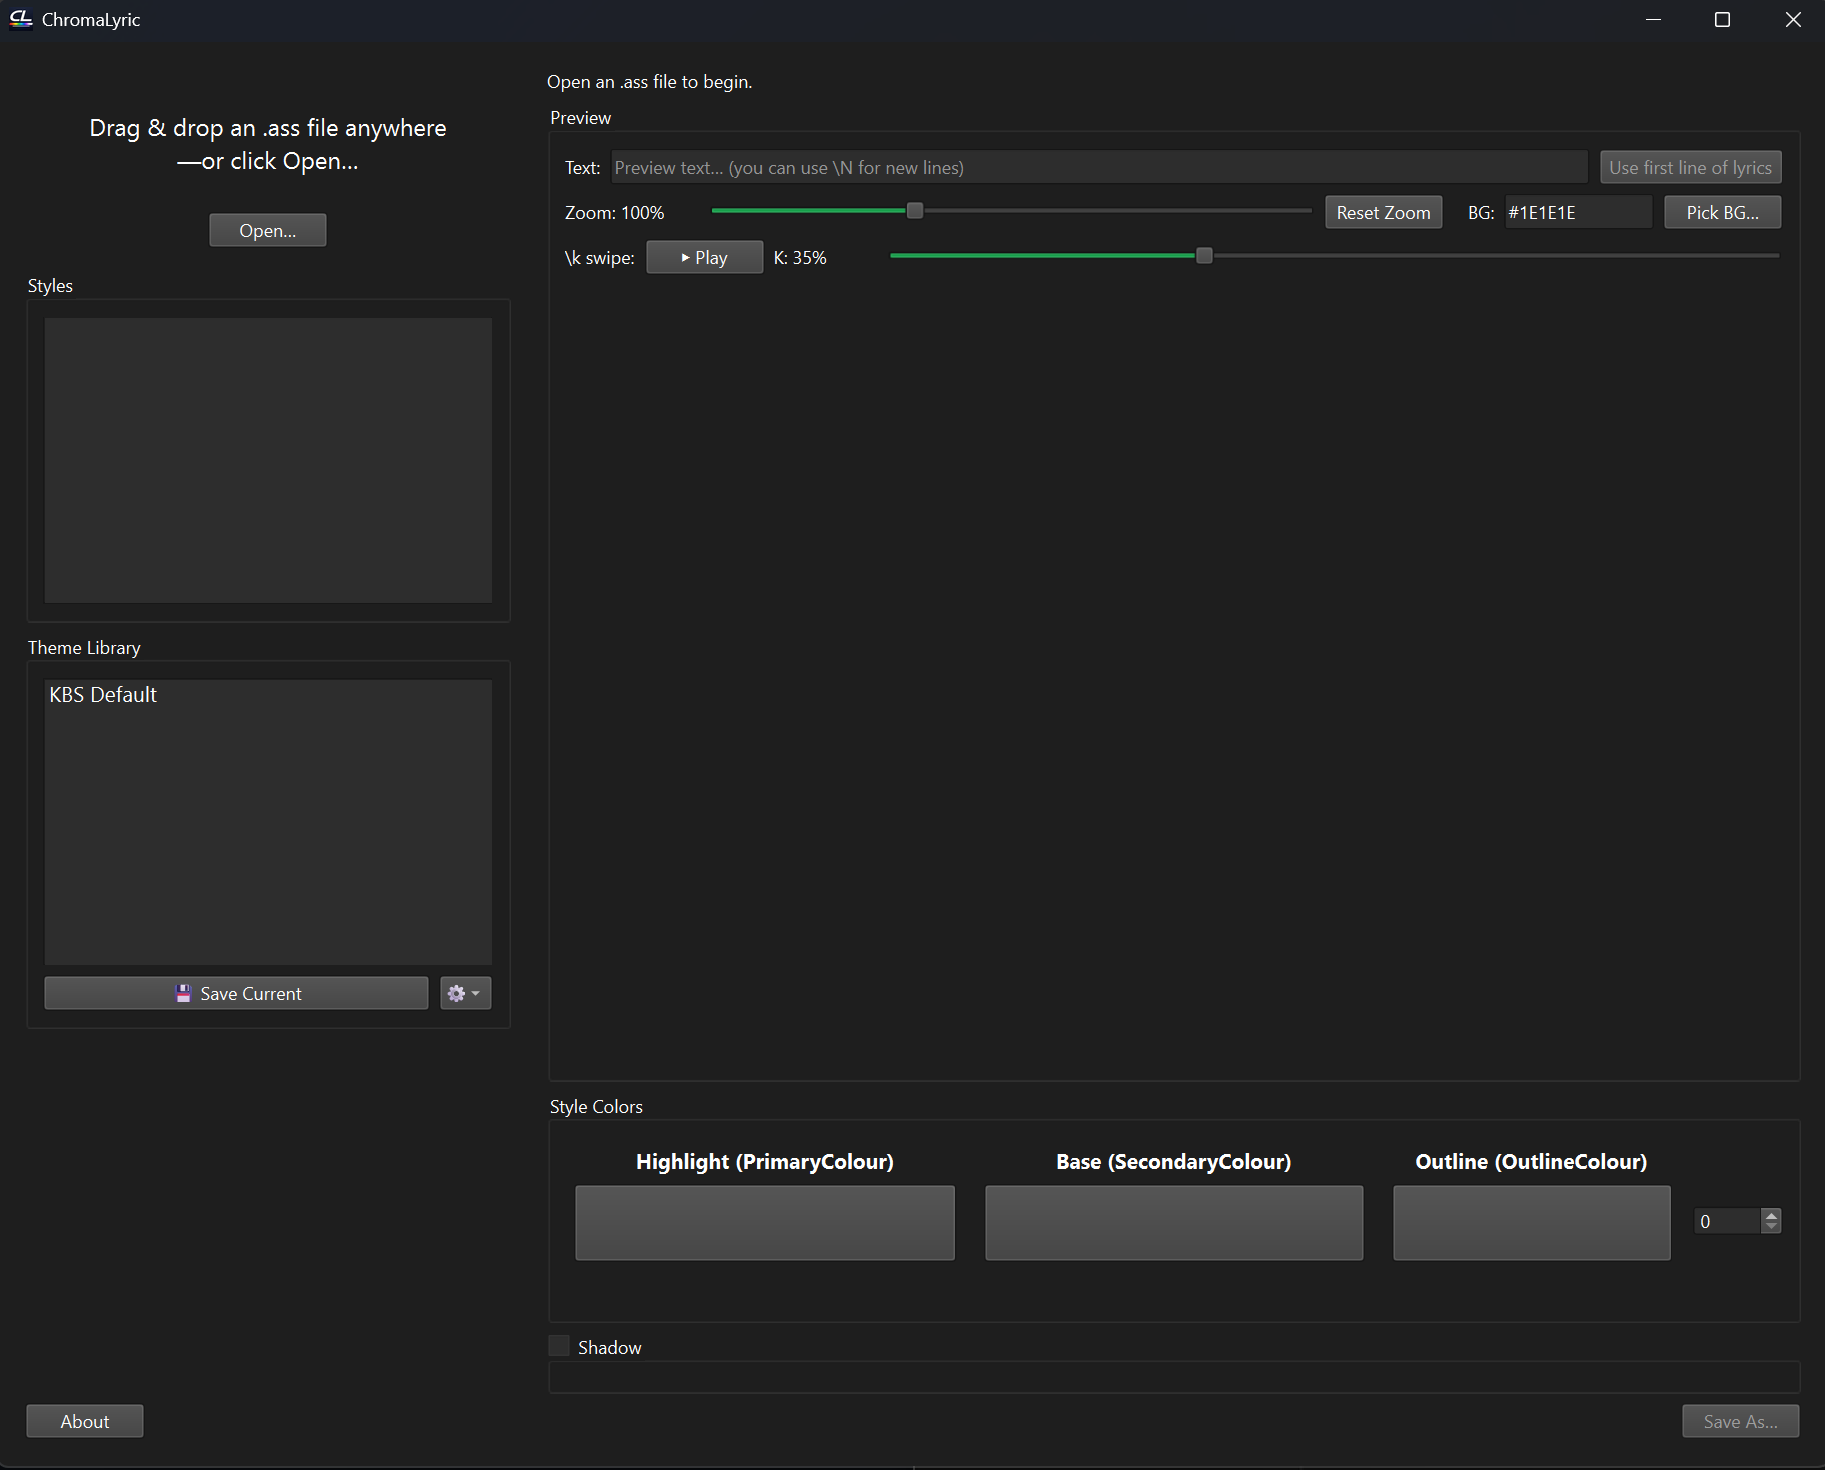
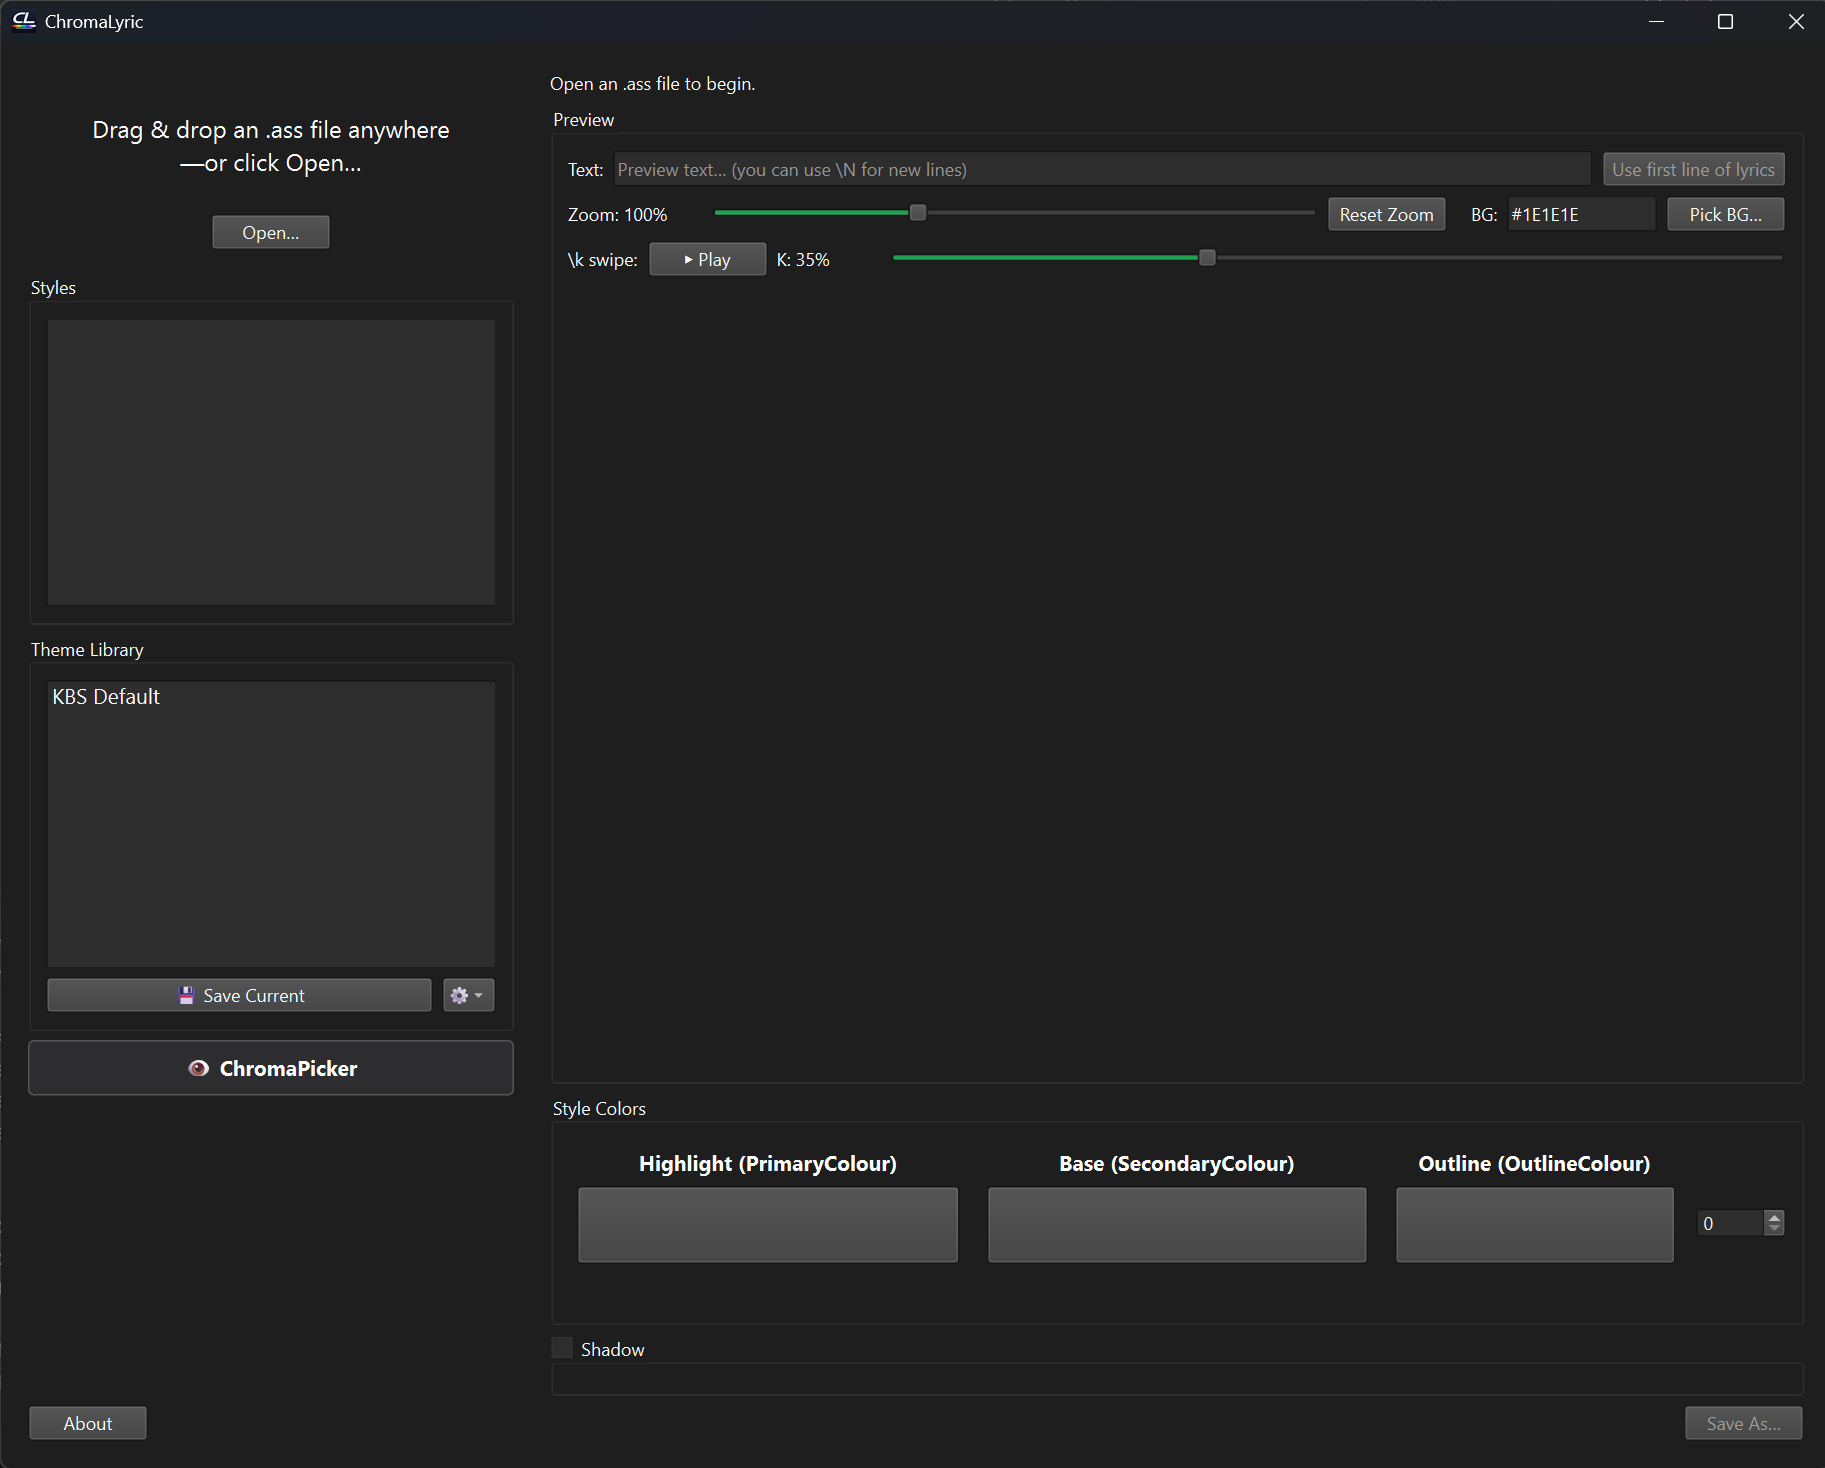
ChromaPicker added, v1.9.0

diff --git a/app.py b/app.py
@@ -22,7 +22,16 @@ from pathlib import Path
 from typing import Dict, List, Optional, Tuple
 
 from PySide6.QtCore import QSettings, Qt, QTimer, Signal
-from PySide6.QtGui import QAction, QColor, QFont, QPainter, QPainterPath, QPen, QPixmap
+from PySide6.QtGui import (
+    QAction,
+    QColor,
+    QFont,
+    QImage,
+    QPainter,
+    QPainterPath,
+    QPen,
+    QPixmap,
+)
 from PySide6.QtWidgets import (
     QApplication,
     QColorDialog,
@@ -741,6 +750,182 @@ class DropWidget(QWidget):
         event.ignore()
 
 
+class ImageDropper(QLabel):
+    """A custom label that handles image scaling and exact pixel color picking."""
+
+    colorPicked = Signal(QColor)
+
+    def __init__(self):
+        super().__init__()
+        self.setAlignment(Qt.AlignCenter)
+        self.setCursor(Qt.CrossCursor)
+        self.setMinimumSize(400, 300)
+        self.setStyleSheet("border: 2px dashed #444; background-color: #121212;")
+        self.setText("Click 'Load Image' to begin")
+        self.source_image = None
+        self.scaled_image = None
+
+    def load_image(self, path: str):
+        self.source_image = QImage(path)
+        self.update_image()
+
+    def resizeEvent(self, event):
+        super().resizeEvent(event)
+        if self.source_image:
+            self.update_image()
+
+    def update_image(self):
+        if self.source_image.isNull():
+            return
+        # Scale image to fit the label while keeping aspect ratio
+        self.scaled_image = self.source_image.scaled(
+            self.width(), self.height(), Qt.KeepAspectRatio, Qt.SmoothTransformation
+        )
+        self.setPixmap(QPixmap.fromImage(self.scaled_image))
+
+    def mousePressEvent(self, event):
+        if not self.scaled_image:
+            return
+
+        # Calculate offsets because the image is centered in the QLabel
+        x_offset = (self.width() - self.scaled_image.width()) // 2
+        y_offset = (self.height() - self.scaled_image.height()) // 2
+
+        px = int(event.position().x()) - x_offset
+        py = int(event.position().y()) - y_offset
+
+        # If the click is actually inside the image bounds
+        if 0 <= px < self.scaled_image.width() and 0 <= py < self.scaled_image.height():
+            color = self.scaled_image.pixelColor(px, py)
+            self.colorPicked.emit(color)
+
+
+class PickedColorWidget(QWidget):
+    """A single row in the color list showing the swatch and transfer buttons."""
+
+    transferColor = Signal(str, QColor)
+
+    def __init__(self, color: QColor):
+        super().__init__()
+        self.color = color
+
+        layout = QHBoxLayout()
+        layout.setContentsMargins(4, 4, 4, 4)
+
+        # Swatch
+        self.swatch = QLabel()
+        self.swatch.setFixedSize(24, 24)
+        self.swatch.setStyleSheet(
+            f"background-color: {color.name()}; border: 1px solid #444; border-radius: 3px;"
+        )
+
+        # Hex Label
+        self.hex_lbl = QLabel(color.name().upper())
+        self.hex_lbl.setStyleSheet(
+            "font-family: monospace; font-weight: bold; font-size: 13px;"
+        )
+        self.hex_lbl.setFixedWidth(65)
+
+        # Transfer Buttons
+        btn_layout = QHBoxLayout()
+        btn_layout.setSpacing(4)
+
+        targets = [
+            ("H", "PrimaryColour", "Highlight"),
+            ("B", "SecondaryColour", "Base"),
+            ("O", "OutlineColour", "Outline"),
+            ("S", "BackColour", "Shadow"),
+            ("BG", "Background", "Preview BG"),
+        ]
+
+        for text, key, tooltip in targets:
+            btn = QPushButton(text)
+            btn.setFixedSize(26, 26)
+            btn.setToolTip(f"Send to {tooltip}")
+            btn.setStyleSheet("font-weight: bold; font-size: 11px;")
+            # Capture the current key and color in the lambda
+            btn.clicked.connect(
+                lambda checked=False, k=key, c=color: self.transferColor.emit(k, c)
+            )
+            btn_layout.addWidget(btn)
+
+        layout.addWidget(self.swatch)
+        layout.addWidget(self.hex_lbl)
+        layout.addLayout(btn_layout)
+        layout.addStretch()
+        self.setLayout(layout)
+
+
+# -----------------------------
+# ChromaPicker
+# -----------------------------
+
+
+class ChromaPickerWindow(QDialog):
+    """The main ChromaPicker dialog window."""
+
+    colorTransferred = Signal(str, QColor)
+
+    def __init__(self, parent=None):
+        super().__init__(parent)
+        self.setWindowTitle("ChromaPicker - Image Color Extractor")
+        self.resize(850, 550)
+        self.setStyleSheet(
+            "QDialog { background-color: #1E1E1E; color: white; } QLabel { color: white; }"
+        )
+
+        # Left Side (Image)
+        self.dropper = ImageDropper()
+        self.dropper.colorPicked.connect(self.add_color_to_list)
+
+        self.load_btn = QPushButton("📂 Load Image (JPG/PNG)")
+        self.load_btn.setFixedHeight(35)
+        self.load_btn.clicked.connect(self.open_image)
+
+        left_layout = QVBoxLayout()
+        left_layout.addWidget(self.dropper, stretch=1)
+        left_layout.addWidget(self.load_btn)
+
+        # Right Side (Color List)
+        self.color_list = QListWidget()
+        self.color_list.setFixedWidth(280)
+        self.color_list.setStyleSheet(
+            "QListWidget { background-color: #121212; border: 1px solid #444; }"
+        )
+
+        self.clear_btn = QPushButton("🗑 Clear Palette")
+        self.clear_btn.clicked.connect(self.color_list.clear)
+
+        right_layout = QVBoxLayout()
+        right_layout.addWidget(QLabel("<b>Extracted Palette</b>"))
+        right_layout.addWidget(self.color_list)
+        right_layout.addWidget(self.clear_btn)
+
+        # Main Layout
+        main_layout = QHBoxLayout()
+        main_layout.addLayout(left_layout, stretch=3)
+        main_layout.addLayout(right_layout, stretch=1)
+        self.setLayout(main_layout)
+
+    def open_image(self):
+        path, _ = QFileDialog.getOpenFileName(
+            self, "Open Image", "", "Images (*.png *.jpg *.jpeg)"
+        )
+        if path:
+            self.dropper.load_image(path)
+
+    def add_color_to_list(self, color: QColor):
+        item = QListWidgetItem(self.color_list)
+        widget = PickedColorWidget(color)
+
+        # Route the transfer signal up to the Main Window
+        widget.transferColor.connect(self.colorTransferred.emit)
+
+        item.setSizeHint(widget.sizeHint())
+        self.color_list.insertItem(0, item)  # Insert at top
+        self.color_list.setItemWidget(item, widget)
+
+
 # -----------------------------
 # Main window
 # -----------------------------
@@ -819,6 +1004,22 @@ class MainWindow(QMainWindow):
 
         left.addWidget(self.preset_group)
 
+        # --- ChromaPicker Launch Button ---
+        self.chroma_picker_btn = QPushButton("👁 ChromaPicker")
+        self.chroma_picker_btn.setStyleSheet("""
+            QPushButton {
+                font-size: 14px;
+                padding: 8px;
+                font-weight: bold;
+                background-color: #2D2D30;
+                border: 1px solid #555;
+                border-radius: 4px;
+            }
+            QPushButton:hover { background-color: #3E3E42; }
+        """)
+        self.chroma_picker_btn.clicked.connect(self.open_chroma_picker)
+        left.addWidget(self.chroma_picker_btn)
+
         # Initialize the "Memory"
         self.settings = QSettings("MattJoy", "ChromaLyric")
         self.presets = []
@@ -887,6 +1088,10 @@ class MainWindow(QMainWindow):
         self.k_timer = QTimer(self)
         self.k_timer.setInterval(20)
         self.k_timer.timeout.connect(self.on_k_timer_tick)
+
+        # ChromaPicker Button
+        self.chroma_picker_btn = QPushButton("👁 ChromaPicker")
+        self.chroma_picker_btn.clicked.connect(self.open_chroma_picker)
 
         ctrl_row1 = QHBoxLayout()
         ctrl_row1.addWidget(QLabel("Text:"))
@@ -1194,6 +1399,37 @@ class MainWindow(QMainWindow):
             self.shadow_opacity_slider.setValue(0)
             self.shadow_opacity_slider.blockSignals(False)
 
+    def open_chroma_picker(self):
+        picker = ChromaPickerWindow(self)
+        # Connect the picker's output to our receive function
+        picker.colorTransferred.connect(self.receive_chromapicker_color)
+        picker.show()  # .show() makes it float so you can use the main window at the same time
+
+    def receive_chromapicker_color(self, target: str, color: QColor):
+        if target == "Background":
+            self.preview.set_bg_color(color)
+            self.bg_hex.setText(color.name().upper())
+            return
+
+        st = self.current_style()
+        if not st:
+            QMessageBox.warning(self, "No Style", "Please select an ASS style first!")
+            return
+
+        # Keep the existing alpha/transparency of the target color
+        current = style_get_color(st, target) or (255, 255, 255, 0)
+        alpha = current[3]
+
+        # Apply the new color
+        style_set_color(st, target, (color.red(), color.green(), color.blue(), alpha))
+
+        # Save to the QColorDialog custom swatches memory
+        self.save_custom_colors()
+
+        # Force UI update
+        self.on_style_selected(self.styles_list.currentRow())
+        self.preview.update()
+
     # ---- Editing ----
 
     def pick_color(self, key: str):
@@ -1265,7 +1501,7 @@ class MainWindow(QMainWindow):
         text_lbl = QLabel(
             "Vibe Coded in 2026 by Matt Joy.<br>"
             + '<a href="https://www.youtube.com/@MattJoyKaraoke" style="color: #788A96;">youtube.com/@MattJoyKaraoke</a><br><br>'
-            + "Version 1.8.1.<br>"
+            + "Version 1.9.0.<br>"
             + "Built with Qt / PySide6 (LGPL v3).<br>"
             + "See licenses folder for details."
         )
@@ -1571,6 +1807,36 @@ class MainWindow(QMainWindow):
                 event.acceptProposedAction()
                 return
         event.ignore()
+
+
+def open_chroma_picker(self):
+    picker = ChromaPickerWindow(self)
+    picker.colorTransferred.connect(self.receive_chromapicker_color)
+    picker.show()  # Use .show() instead of .exec() so it stays open while you work!
+
+
+def receive_chromapicker_color(self, target: str, color: QColor):
+    if target == "Background":
+        self.preview.set_bg_color(color)
+        self.bg_hex.setText(color.name().upper())
+        return
+
+    st = self.current_style()
+    if not st:
+        QMessageBox.warning(self, "No Style", "Please select an ASS style first!")
+        return
+
+    # Keep the existing alpha value of the target color
+    current = style_get_color(st, target) or (255, 255, 255, 0)
+    alpha = current[3]
+
+    style_set_color(st, target, (color.red(), color.green(), color.blue(), alpha))
+
+    # Save to the custom color dialog history for good measure
+    self.save_custom_colors()
+
+    self.on_style_selected(self.styles_list.currentRow())
+    self.preview.update()
 
 
 def main():

diff --git a/Readme.md b/Readme.md
@@ -17,6 +17,12 @@
 
 __________________________________________________________________________________________
 
+### 📸 Main App Screenshot
+
+![ChromaLyric Screenshot](assets/Screenshot1.png)
+
+__________________________________________________________________________________________
+
 ### ✨ What It Does
 ChromaLyric focuses on style-level editing inside .ass subtitle files:
 
@@ -64,6 +70,18 @@ ChromaLyric includes a built-in Preset Manager to speed up your workflow:
 * Click **"Save Current"** to add it to your persistent library.
 * Double-click any saved preset to instantly apply it to your current ASS style.
 * Export your library as a `.json` file to back it up or share it.
+
+__________________________________________________________________________________________
+
+### 👁 ChromaPicker (Image Color Extractor)
+Stop guessing hex codes. ChromaLyric 1.9.0 introduces a built-in, floating color extractor designed specifically for matching your karaoke styles to music video frames or anime episodes.
+
+* **Pixel-Perfect Extraction:** Load any `.jpg` or `.png` reference frame and click anywhere with the crosshair to grab the exact RGBA color.
+* **Extracted Palette History:** Every color you click is saved into a running swatch list alongside its exact hex code.
+* **One-Click Routing:** Instantly send any extracted color directly to your active `.ass` style using the quick-transfer buttons: Highlight (H), Base (B), Outline (O), Shadow (S), or Preview Background (BG).
+* **Live UI Syncing:** The picker floats over your workspace, meaning your main preview window updates in real-time as you route colors—no closing dialogs or copy-pasting required.
+
+![ChromaLyric Screenshot](assets/Screenshot2.png)
 
 __________________________________________________________________________________________
 
@@ -126,9 +144,3 @@ ________________________________________________________________________________
 
 ### 💡 Design Philosophy
 ChromaLyric is intentionally focused and lightweight. It exists to make color experimentation fast and provide visual confidence before rendering.
-
-__________________________________________________________________________________________
-
-### 📸 Screenshot
-
-![ChromaLyric Screenshot](assets/Screenshot1.png)

diff --git a/CHANGELOG.md b/CHANGELOG.md
@@ -2,6 +2,15 @@
 
 All notable changes to ChromaLyric will be documented in this file.
 
+## [1.9.0] - 2026-02-27
+
+### Added
+- **ChromaPicker (Image Color Extractor)**: A brand-new floating utility to pull perfect color palettes directly from your reference frames (like anime episodes or music videos). Launch it right from the left sidebar!
+- **Crosshair Pixel Dropper**: Load any `.jpg` or `.png` and click anywhere on the image to extract the exact RGBA pixel data. Large images automatically scale to fit your screen while retaining 1:1 pixel accuracy.
+- **Extracted Palette History**: Every color you click is saved into a running swatch list on the right side of the picker, complete with its exact Hex code.
+- **One-Click Quick Transfer**: Instantly route any extracted color to your current style. Use the `H`, `B`, `O`, `S`, or `BG` buttons to instantly push the color to your Highlight, Base, Outline, Shadow, or Preview Background.
+- **Live UI Syncing**: Because the ChromaPicker floats over the main application, routing a color instantly updates the main preview window and your custom swatch memory without interrupting your workflow.
+
 ## [1.8.1] - 2026-02-27
 
 ### Added
